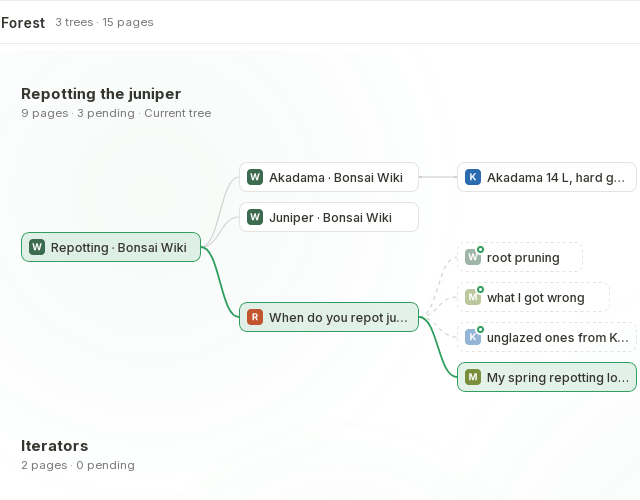
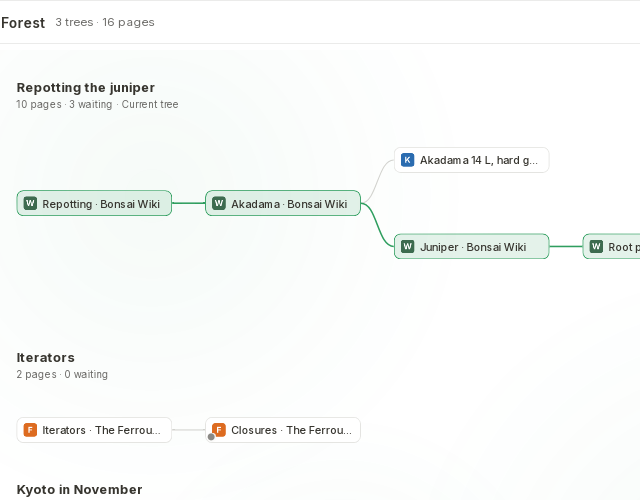
Refresh the chrome guide and README pictures
Describe the folded strip, workbench, branch actions, keyboard routes and retained pages as built. Capture both themes with a run capsule, named parent, attached list and page menu. Keep the full chrome and menus in the exported pictures and isolate the capture runtime.

diff --git a/tests/readme_shots.rs b/tests/readme_shots.rs
@@ -69,6 +69,7 @@ fn main() -> Result<()> {
         )?;
         wait("card", || visible(&ui, "#strip-list"))?;
         pump(900);
+        assert_eq!(chrome(&ui, "!!document.querySelector('#strip-nodes .run') && !!document.querySelector('#strip-nodes .parent .item-label') && document.querySelectorAll('#tab-row [role=tab]').length === 3")?, true);
         shot("card")?;
         rest(&ui)?;
         wait("card gone", || !visible(&ui, "#strip-list"))?;
@@ -84,9 +85,14 @@ fn main() -> Result<()> {
         rest(&ui)?;
         key("ctrl+shift+e")?;
         wait("tree view", || visible(&ui, "#tree-sheet"))?;
-        chrome(&ui, "(setTreeSide('tree'), true)")?;
+        chrome(&ui, "(setTreeSide('list'), true)")?;
+        let row = format!("#tree-list [data-id='{thread}']");
+        hover_chrome(&ui, &row)?;
+        xdo(&["click", "3"])?;
+        wait("node menu", || visible(&ui, "#popover [data-node-action]"))?;
         pump(400);
         shot("tree")?;
+        key("Escape")?;
         key("Escape")?;
         key("ctrl+e")?;
         wait("forest", || visible(&ui, "#forest"))?;
@@ -206,12 +212,15 @@ fn build(ui: &Ui, film: &Film) -> Result<()> {
         "http://koen-nursery.example/soil/akadama-14l",
         Some(akadama),
     )?;
-    back_to(ui, root)?;
-    go(ui, "http://bonsaiwiki.example/wiki/Juniper", Some(root))?;
-    back_to(ui, root)?;
+    back_to(ui, akadama)?;
+    go(ui, "http://bonsaiwiki.example/wiki/Juniper", Some(akadama))?;
+    let juniper = current(ui)?;
+    go(
+        ui,
+        "http://bonsaiwiki.example/wiki/Root_pruning",
+        Some(juniper),
+    )?;
     name_tree(ui, root, "Repotting the juniper", true)?;
-    // Filmed: a link is followed, three more are left waiting, another is followed, and the
-    // strip shows what the tree has become.
     rest(ui)?;
     film.hold(ui, 900)?;
     film.click(ui, "thread", "1")?;
@@ -238,7 +247,14 @@ fn build(ui: &Ui, film: &Film) -> Result<()> {
     let (x, y) = page_point(ui, (left + width / 2.) as i32, 68)?;
     film.glide(ui, x, y)?;
     film.hold(ui, 1300)?;
-    let (x, y) = chrome_point(ui, &node(thread))?;
+    let item = chrome(
+        ui,
+        &format!("S.strip.nodes.find(n=>n.ids.includes('{thread}')).id"),
+    )?;
+    let (x, y) = chrome_point(
+        ui,
+        &format!("#strip-nodes [data-id='{}']", item.as_str().unwrap()),
+    )?;
     film.glide(ui, x, y)?;
     film.hold(ui, 2600)?;
     rest(ui)?;

diff --git a/tests/readme_site/mod.rs b/tests/readme_site/mod.rs
@@ -189,7 +189,7 @@ pub fn answer(host: &str, path: &str) -> Option<Answer> {
             picture("#2f7a55", "#dcebe2", 170)
         )),
         ("bonsaiwiki.example", "/wiki/Root_pruning") => page(site, "Root pruning", &format!(
-            "<h1>Root pruning</h1><p class='lede'>Root pruning shortens thick roots so that fine feeder roots grow close to the trunk.</p>{green}<p>Remove roots that grow straight down, cut back the thickest by a third, and leave the fine roots near the surface.</p>"
+            "<h1>Root pruning</h1><p class='lede'>Root pruning shortens thick roots so that fine feeder roots grow close to the trunk.</p>{green}<p>Remove roots that grow straight down, cut back the thickest by a third, and leave the fine roots near the surface.</p><p>Growers compare the timing in <a id='thread' href='http://rootbound.example/t/4821'>a thread about repotting junipers</a>.</p>"
         )),
         ("rootbound.example", "/t/4821") => page(site, "When do you repot junipers?", &thread()),
         ("mossandwire.example", "/2026/spring-repotting-log") => page(site, "My spring repotting log", &format!(

diff --git a/src/main.rs b/src/main.rs
@@ -30,15 +30,19 @@ computer.
 Ctrl+K          Search your forest or go to an address
 Ctrl+L          Same, starting from the current address
 Ctrl+E          Forest view
+Ctrl+Shift+E    Current-tree workbench
 Ctrl+T          New tree
+Ctrl+W          Settle the tree, or close the open overlay
 Ctrl+Shift+T    Reopen the most recently settled tree or branch
 Ctrl+1…9        Switch to a tree
 Ctrl+Shift+Tab  Switch to the previously shown open tree
+Ctrl+Tab        Open the next waiting page
 F6              Move between the page and the tree strip
 Alt+←           Back to the parent page
 Alt+→           Forward to the last opened child
 Alt+↑/↓         Previous or next sibling
 Ctrl+R          Reload the page
+Ctrl+D          Toggle the page bookmark
 Ctrl+S          Remember the selection
 Ctrl+Shift+L    Fill the saved login for the page
 Ctrl+Q          Quit

diff --git a/README.md b/README.md
@@ -19,11 +19,11 @@
 </p>
 
 <p align="center">
-  <img src="docs/assets/shots/fork.webp" width="880" alt="A wiki page about repotting is open. A link to a forum thread is followed, three links in the thread are middle-clicked and appear in the strip as dashed waiting pages, a fourth link is followed, then the pointer rests on the strip and it opens to show the whole tree and a card for the forum thread">
+  <img src="docs/assets/shots/fork.webp" width="880" alt="A repotting tree grows through a forum thread. Three links are left waiting, another is followed, then an attached list names the thread and its other branches">
 </p>
 
 <p align="center">
-  <sub>One tree growing: a link followed, three left waiting for later, another followed, then the strip opened over the page.</sub>
+  <sub>One tree growing: a link followed, three left waiting for later, another followed, then a named list opened under the parent.</sub>
 </p>
 
 <p align="center">
@@ -74,9 +74,9 @@ Good to know:
 
 ## What it is
 
-A tab bar is a flat list. It forgets which page led to which, and going back to try another link throws away where you had been. Canopy keeps that shape. Each visit records its parent, each search or typed address starts a new tree, and the tabs at the top are whole trees, not single pages.
+A tab bar is a flat list. It forgets which page led to which, and going back to try another link throws away where you had been. Canopy keeps that shape. Each visit records its parent, and the tabs at the top are whole trees. An address or search in the current page's palette grows a child. **Ctrl+T** or **Alt+Enter** in the palette starts a new tree.
 
-Under the tabs, a strip draws the tree you are in: the path to the current page, with small buds for the other branches. Rest the pointer on it and it opens over the page with every branch. Click any page to return to it.
+Under the tabs, a fixed-height strip shows the path to the current page. Same-site runs fold into counted capsules, the parent keeps its name, and counts mark other branches. Rest the pointer on an item, or focus it with the keyboard, to open its named list. Click a row to return to that page.
 
 A tree is also a place to keep things. Links you open with a middle click wait in the tree until you read them. Files you download hang as leaves on the page they came from. The text of the pages you read is saved, so a few remembered words find the page again, along with the comment that linked to it.
 
@@ -92,30 +92,30 @@ Every picture here is the real window, taken by the test suite while it browses 
     <td width="50%" align="center">
       <picture>
         <source media="(prefers-color-scheme: dark)" srcset="docs/assets/shots/card-dark.webp">
-        <img src="docs/assets/shots/card-light.webp" width="418" alt="The strip opened over a page, showing the whole tree as small icons. A card under one of them gives the page's title, site, the text around the link that led to it, and the buttons Open and New branch here">
+        <img src="docs/assets/shots/card-light.webp" width="418" alt="The strip shows a folded run, a named parent and the current page. An attached list names the parent and its other branches beneath the tab row">
       </picture>
-      <br><sub><b>The strip.</b> Every branch of the tree, one hover away. A card tells you what each page was.</sub>
+      <br><sub><b>The strip.</b> Folded runs and a named parent keep the path readable. One attached list names the other branches.</sub>
     </td>
     <td width="50%" align="center">
       <picture>
         <source media="(prefers-color-scheme: dark)" srcset="docs/assets/shots/tree-dark.webp">
-        <img src="docs/assets/shots/tree-light.webp" width="418" alt="The current tree in a larger view: nine pages with their titles, three of them dashed because they are waiting to be read">
+        <img src="docs/assets/shots/tree-light.webp" width="418" alt="The current tree on the List side of the workbench, with path highlighting, waiting pages, folding controls and a page menu">
       </picture>
-      <br><sub><b>Waiting pages.</b> Middle-click links to keep them in the tree, drawn dashed until you read them.</sub>
+      <br><sub><b>The workbench.</b> Fold, filter and act on a page or branch from the List or Tree side.</sub>
     </td>
   </tr>
   <tr>
     <td width="50%" align="center">
       <picture>
         <source media="(prefers-color-scheme: dark)" srcset="docs/assets/shots/forest-dark.webp">
-        <img src="docs/assets/shots/forest-light.webp" width="418" alt="The forest view: three trees listed with their names and page counts, the first drawn in full with titled pages">
+        <img src="docs/assets/shots/forest-light.webp" width="418" alt="A part of the forest canvas, with tree names, page counts and titled pages connected by their branches">
       </picture>
       <br><sub><b>The forest.</b> Every tree on one canvas. Pan, zoom, and click a page to return to it.</sub>
     </td>
     <td width="50%" align="center">
       <picture>
         <source media="(prefers-color-scheme: dark)" srcset="docs/assets/shots/start-dark.webp">
-        <img src="docs/assets/shots/start-light.webp" width="418" alt="The new-tree page: a search field, three pinned trees drawn as small trees, twelve bookmarks, and two pages suggested from history with the reason under each">
+        <img src="docs/assets/shots/start-light.webp" width="418" alt="The new-tree page: a search field, three pinned trees drawn as small trees, twelve bookmarks, and suggestions from history with the reason under each">
       </picture>
       <br><sub><b>A new tree.</b> Pinned trees reopen where you left them, above bookmarks and suggestions from your habits.</sub>
     </td>
@@ -124,7 +124,7 @@ Every picture here is the real window, taken by the test suite while it browses 
     <td width="50%" align="center">
       <picture>
         <source media="(prefers-color-scheme: dark)" srcset="docs/assets/shots/palette-dark.webp">
-        <img src="docs/assets/shots/palette-light.webp" width="418" alt="The palette searching for akadama: four results from saved text, each with the passage that matched, and a web search below">
+        <img src="docs/assets/shots/palette-light.webp" width="418" alt="The palette searching for akadama: results from saved text, each with the passage that matched, and a web search below">
       </picture>
       <br><sub><b>Search what you read.</b> The palette finds words inside pages you visited, not only titles.</sub>
     </td>
@@ -145,10 +145,11 @@ Each heading links to its part of the [guide](docs/guide.md).
 ### [Trees instead of tabs](docs/guide.md#find-your-way-around)
 
 - One tab per tree, named after what you searched for or after its first page. Right-click to rename it.
-- The strip shows the path to the current page and opens on hover to show every branch.
-- A card on each page gives its title, site and where it was found, with **New branch here** to start from that page without loading it.
+- The strip folds same-site runs and names the parent. Hover or focus an item to list its pages and other branches.
+- **New branch here** starts from the page named in the list without loading it. Right-click a page, or press **Shift+F10** to open its page and branch actions.
+- **Ctrl+Shift+E** opens the current-tree workbench, with folding, a name filter and **Waiting only**.
 - **Ctrl+E** opens the forest, with every tree on one canvas.
-- **Ctrl+W** settles a tree: it leaves the tabs, keeps every page, and comes back when you open one of them. Pinned trees stay on the new-tree page.
+- **Ctrl+W** settles a tree. It leaves the tabs and keeps every page. **Undo** or **Ctrl+Shift+T** reopens it. Pinned trees stay on the new-tree page.
 
 ### [Read now, read later](docs/guide.md#resume-reading)
 
@@ -199,9 +200,13 @@ Each heading links to its part of the [guide](docs/guide.md).
 | **Ctrl+W** | Settle the current tree. |
 | **Ctrl+E** | The forest: every tree. |
 | **Ctrl+Shift+E** | The current tree in a larger view. |
-| **Alt+Left** | Back to the parent page. |
+| **Alt+Left**, **Alt+Right** | Back to the parent, or forward to the child shown most recently. |
+| **Alt+Up**, **Alt+Down** | Previous or next sibling. |
+| **Ctrl+Shift+Tab** | Switch to the previously shown open tree. |
+| **Ctrl+Shift+T** | Reopen the most recently settled tree or branch. |
 | **Ctrl+Tab** | Next waiting page of this tree. |
-| **F6** | Move the keyboard between the page and the strip. **Left** and **Right** walk the path. |
+| **F6** | Move the keyboard between the page and the strip. **Left** and **Right** walk the path. **Down** or **Enter** opens its list. |
+| **Shift+F10**, **Menu** | Open the focused page, tab, pinned-card or bookmark menu. |
 | **Ctrl+D** | Bookmark the page, or remove its bookmark. |
 | **Ctrl+S** | Remember the selected passage. |
 | **Ctrl+Shift+L** | Fill the saved login. |
@@ -244,7 +249,7 @@ The GUI suites drive the real window with pointer and keyboard input under Xvfb,
 
 ## How it is built
 
-Canopy is one Rust program. WebKitGTK shows the pages, one live web view per branch you keep open. The chrome (tabs, strip, palette, cards, forest) is HTML drawn by a transparent web view over the page. SQLite holds the forest, and one module is its only writer.
+Canopy is one Rust program. WebKitGTK shows the pages, one live web view per branch you keep open. The chrome (tabs, strip, palette, lists, forest) is HTML drawn by a transparent web view over the page. SQLite holds the forest, and one module is its only writer.
 
 The design notes explain the choices and what was rejected:
 

diff --git a/docs/design.md b/docs/design.md
@@ -14,7 +14,7 @@ The alternative brought two things to the chosen design. The navigation intent s
 
 Schema 12 adds nullable `dismissed_at` and `branch_settled_at` marks to visits. The migration runs in a transaction and preserves version-11 rows. Selection clears dismissal on the selected visit and settlement on every ancestor in the same transaction as the arrival log and cursor. The forest projection excludes dismissed links and settled subtrees from waiting counts. Strip branch counts omit settled subtrees, while the zoomed tree and attached lists retain a branch stub.
 
-Moving a branch changes only its head's parent and the two tree targets, in one transaction. The new root can still be waiting, so its `tree_state` target is the most recently opened page inside the subtree, ordered by arrival log. The old target moves to the most recently opened page left in the original tree. Native history bindings keep their visit IDs. The existing history guard resolves tree membership against SQLite, so Back cannot cross the detached root.
+Moving a branch changes only its head's parent and the two tree targets, in one transaction. Moving clears the new root's settled mark and preserves marks below it. Its `tree_state` target is the most recently opened page inside the subtree, ordered by arrival log. The old target moves to the most recently opened page left in the original tree. Native history bindings keep their visit IDs. The existing history guard resolves tree membership against SQLite, so Back cannot cross the detached root.
 
 ## An intent comes before a visit
 
@@ -91,8 +91,7 @@ Back uses an entry still present in WebKit's history only when its visit belongs
 The tabs, the tree strip, the palette, the attached lists, the menus, the "New tree" page, the forest view and the reader are drawn in HTML. A second, transparent webview, served by the `canopy://` scheme, sits above the page. Rust keeps the state and every decision: the layouts, the palette results and the intents. The view receives JSON and sends clicks and keys back over IPC.
 
 Chrome frames carry the current tree, open-tab summaries, waiting pages and the
-open palette's scope page. The
-start page requests its pinned and suggested miniature data when shown. The
+open palette's scope page. The start page requests its pinned and suggested miniature data when shown. The
 forest requests both layouts on open; Rust rebuilds them when the forest changes
 while open. Closing the forest stops sending its history. Unchanged strip items
 and list rows keep their DOM nodes. After a refresh, the strip keeps WebKit's
@@ -123,10 +122,10 @@ With the desktop reduced-motion preference, strip moves and the forest camera fi
 
 The zoomed tree sizes its body from the window height sent by Rust, before measuring and centring the current tile. It never uses the temporary native view height. The chrome suppresses WebKit navigation context menus outside editable fields and selected text. GTK tooltip queries are refused while a chrome layer is open, so cached tooltips cannot cover menus even with a stationary pointer. Tooltips work again after the layer closes.
 
-Rust sizes the active tab first from its title width, icon, padding and settle cross, between 110 and 200 px, capped at the room left after the overflow arrow. Other tabs share the remaining room as titles, down to about six characters with their cross overlaid on hover. Tabs become icons one at a time, farthest from the active tree first, then hide behind the arrow. Icon tabs keep a small green waiting count. The active waiting count sits at the icon corner too, preserving title room. Short titles keep the pin in the tooltip and overflow row; wider titled tabs retain the inline pin, whose width Rust includes. A settle click requires the cross to have been visible under the pointer at press time and a click count of one. The cross draws a 16 px hover shape inside its 24 px hit area. The overflow list includes waiting counts, pins and a settle button. Rust remembers the room measured by the view and sends a new tab fit in every frame. The view applies that fit in the same presentation call as the active class, without another round trip. Ctrl+Shift+Tab uses the visit log in descending event order to find the most recently shown other open tree.
+Rust sizes the active tab first from its title width, icon, padding and settle cross, between 110 and 200 px, capped at the room left after the overflow arrow. Other tabs share the remaining room as titles, down to about six characters with their cross overlaid on hover. Tabs become icons one at a time, farthest from the active tree first, then hide behind the arrow. Icon tabs keep a small green waiting count. The active waiting count sits at the icon corner too, preserving title room. Short titles keep the pin in the tooltip and overflow row; wider titled tabs retain the inline pin, whose width Rust includes. A settle click requires the cross to have been visible under the pointer at press time and a click count of one. The cross draws a 16 px hover shape inside its 24 px hit area. The overflow list includes waiting counts, pins and a settle button. Rust remembers the room measured by the view and sends a new tab fit in every frame. The view applies that fit in the same presentation call as the active aria-selected state, without another round trip. Ctrl+Shift+Tab uses the visit log in descending event order to find the most recently shown other open tree.
 
 
-This choice replaces the GTK and cairo chrome. It costs a second WebKit process, measured at about 124 MB of PSS. In exchange, a single interface runs on Linux, macOS and Windows. On Linux, GTK remains the invisible host of both webviews, as in Tauri. The page engine and the host window stay tied to WebKitGTK until the port to macOS and Windows.
+This choice replaces the GTK and cairo chrome. It costs a second WebKit process, measured at about 124 MB of PSS. The HTML chrome can be reused for a future macOS or Windows port. On Linux, GTK remains the invisible host of both webviews, as in Tauri. The page engine and the host window stay tied to WebKitGTK until the port to macOS and Windows.
 
 ## Saved logins are filled on request
 
@@ -177,7 +176,7 @@ own command-line tool.
 
 The first milestone checks navigation, forks and resuming after a restart.
 
-The minimap, the graph layout, page extraction, summaries and the agent wait for a later milestone. The live page has no generic trait. Moving to Servo or CEF will mean revisiting the rendering and profile integration.
+The forest and current-tree layouts and saved-text extraction are built. Summaries and the agent wait for a later milestone. The live page has no generic trait. Moving to Servo or CEF will mean revisiting the rendering and profile integration.
 
 In-app changes inside web applications remain a separate case. The MVP does not promise to turn every JavaScript state change into a visit.
 
@@ -190,7 +189,8 @@ compares URLs. Routing checks a candidate's pending Restore, the selected docume
 and history, then hidden live and dormant histories in MRU order. A tree-tab return
 uses the most recently shown branch's current document, including hidden redirects;
 a specific visit-node selection still requests that historical visit. A view follows
-links and forks in place; queued visits still wait until first selection to load.
+links and forks in place. Queued visits can load in the background under the memory
+budget, but become read only on first selection.
 
 Returning to the current document in a hidden live branch selects its existing
 Document in Browser's selection transaction, with no load or request. Forms,

diff --git a/docs/guide.md b/docs/guide.md
@@ -10,7 +10,7 @@ This guide covers everything Canopy does today, feature by feature. For installi
 4. Follow another link. Both visits appear under the first page.
 5. Close the browser, then start it again with the same data folder. The tree and the current page are kept.
 
-Clicking an older visit reloads its URL. Resuming does not restore the scroll position or forms.
+Returning to a page still open in memory preserves its forms, scripts and scroll position. Released pages reload when reopened. A restart restores the recorded scroll position, but not forms or scripts.
 
 On a page's attached list, **New branch here** opens the palette from that page without loading it, so the next address you type becomes its child. A tree's tab reopens the page you were last reading in that tree.
 
@@ -28,7 +28,7 @@ Chrome menus take focus when opened. Arrow keys walk menu actions, Home and End 
 
 Window shortcuts require the listed modifiers. Caps Lock and Num Lock do not affect them.
 
-- **Ctrl+K** or the **Search or go…** pill opens the palette. Type to search your forest and your saved text, or to go to an address. **Enter** opens the selected result. **Alt+Enter** opens it in a new tree. **Escape** closes the palette and returns focus to the control that opened it, or to the page.
+- **Ctrl+K** or the **Search or go…** pill opens the palette. Type to search your forest and your saved text, or to go to an address. An address or web search grows a child of the page where you opened the palette. From the new-tree page it starts a new tree. **Enter** opens the selected result. **Alt+Enter** opens it in a new tree. **Escape** closes the palette and returns focus to the control that opened it, or to the page.
 - **Ctrl+D** bookmarks the current page or removes its bookmark, including while the new-tree page shows over it.
 - **Ctrl+L** opens the same palette with the current address selected.
 - **Ctrl+E** or the forest button opens every tree. Drag or scroll to pan, Ctrl+scroll to zoom, and use **Titles** to switch between pills and icons. Click a page to restore it.
@@ -60,7 +60,7 @@ Settling a tree or branch shows **Settled ‘name’ · N waiting kept**. The to
 
 ## Resume reading
 
-1. From a comment or an article, open several links with **Ctrl+click**, a **middle click** or a link meant for a new window. The destinations wait in the tree, drawn dashed. The source page stays open and the destinations are not downloaded.
+1. From a comment or an article, open several links with **Ctrl+click**, a **middle click** or a link meant for a new window. The destinations wait in the tree. The source page stays open. Waiting pages may load silently in the background when memory allows. They stay waiting until you open them. A hollow green ring means not loaded; a filled green dot means loaded and waiting. A small grey dot marks a read page still open in memory.
 2. Click a waiting page to read it. The visit keeps its parent and the link's context when it is available.
 3. Let **Remember pages** save the text of the open page, or select a passage and press **Ctrl+S**. These live in the **Memory** menu, behind the dot at the end of the current page in the strip. **Remember selection** in that menu does the same as Ctrl+S.
 4. Close the browser, then start it again with the same data folder.

diff --git a/docs/development.md b/docs/development.md
@@ -42,7 +42,7 @@ The pictures and the short film in the README come from the real window, browsin
 scripts/readme-shots.sh
 ```
 
-It writes `docs/assets/shots/`. `tests/readme_shots.rs` holds the browsing session and the list of pictures. Run without `CANOPY_README_SHOTS`, that test does nothing.
+It uses a private runtime folder, keeps temporary build files in `.cache/tmp`, and writes `docs/assets/shots/`. `tests/readme_shots.rs` holds the browsing session and the list of pictures. Run without `CANOPY_README_SHOTS`, that test does nothing.
 
 ## Where things live
 
